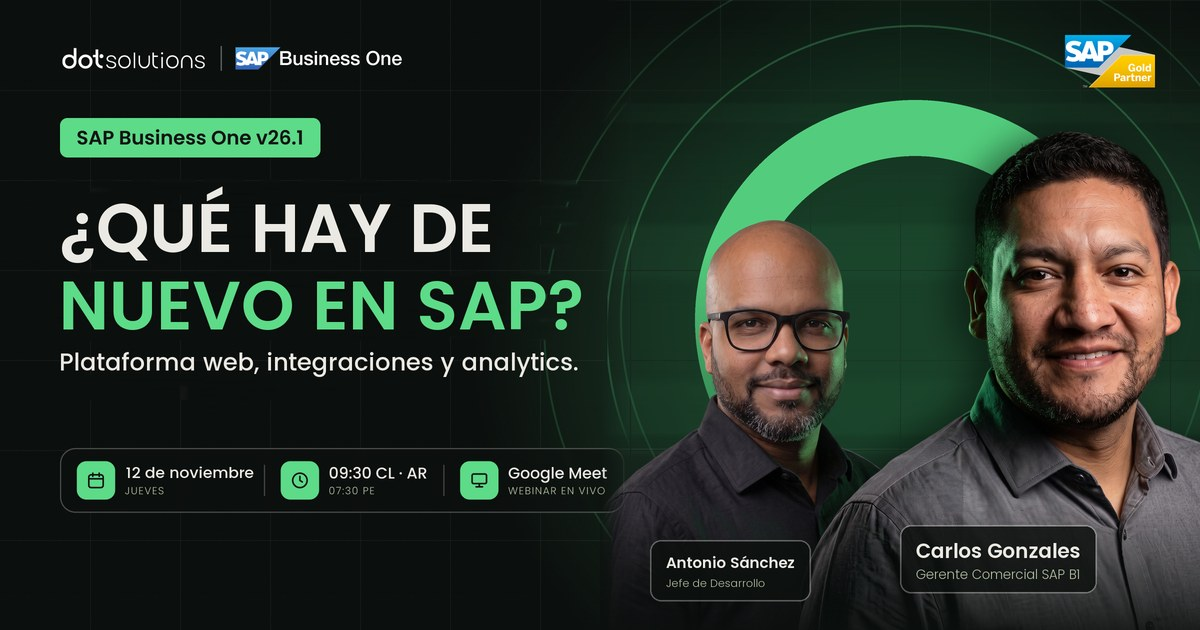
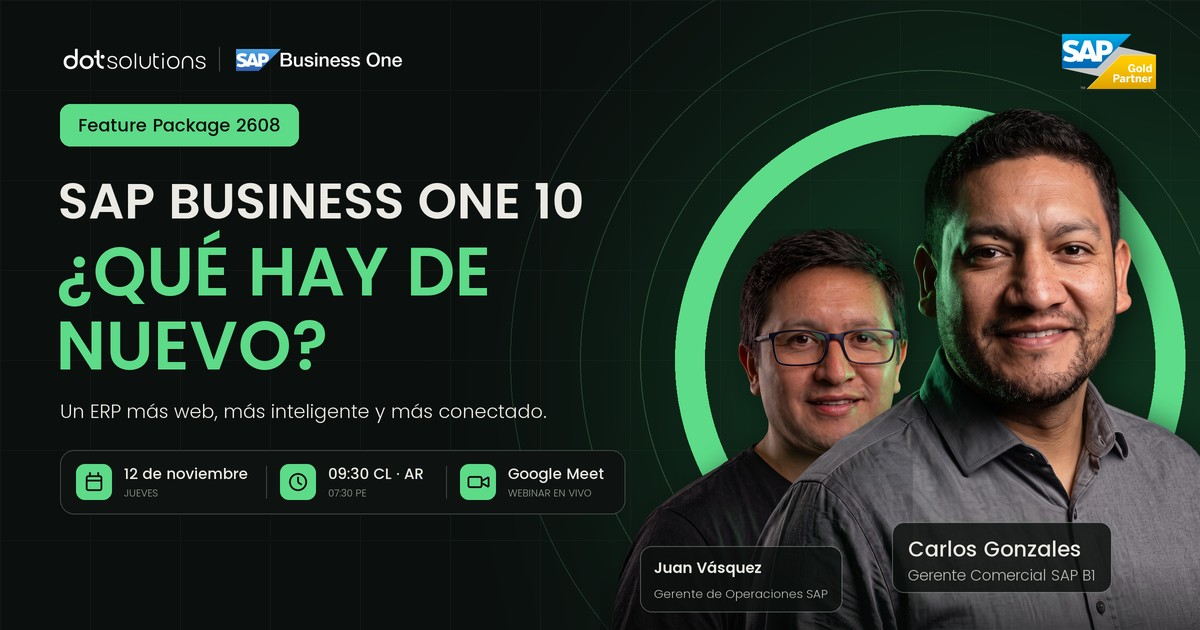
Mailings: título oficial SAP B1 10, contenido FP 2608, Juan Vásquez y envío por dotfax sin variables

diff --git a/email/invitacion.html b/email/invitacion.html
@@ -7,15 +7,14 @@
 <meta name="x-apple-disable-message-reformatting">
 <meta name="color-scheme" content="dark">
 <meta name="supported-color-schemes" content="dark">
-<title>Invitación · ¿Qué hay de nuevo en SAP? · Webinar SAP Business One v26.1</title>
+<title>Invitación · SAP Business One 10 ¿Qué hay de nuevo? · Webinar DOT Solutions</title>
 <!--[if mso]><noscript><xml><o:OfficeDocumentSettings><o:PixelsPerInch>96</o:PixelsPerInch></o:OfficeDocumentSettings></xml></noscript><![endif]-->
 <link href="https://fonts.googleapis.com/css2?family=Poppins:wght@300;400;500;600&display=swap" rel="stylesheet">
 <style>
   /* =========================================================
-     MAILING · Confirmación de inscripción
-     Variables a reemplazar en tu plataforma de email:
-       {{nombre}}           nombre de la persona inscrita
-       {{unsubscribe_url}}  enlace de baja (lo entrega tu plataforma)
+     MAILING · Invitación al webinar
+     Envío por dotfax: listo para enviar, sin variables.
+     La baja se solicita respondiendo a contacto@dotsolutions.io
      Imágenes alojadas en https://jpmenenm.github.io/webinar-sapb1-v26/email/img/
      ========================================================= */
   body,table,td,a{-webkit-text-size-adjust:100%;-ms-text-size-adjust:100%}
@@ -47,7 +46,7 @@
 
 <!-- Preheader (texto de vista previa en la bandeja) -->
 <div style="display:none;max-height:0;overflow:hidden;mso-hide:all;font-size:1px;line-height:1px;color:#0B0F0D;">
-  Te invitamos: jueves 12 de noviembre, webinar en vivo para conocer lo nuevo de SAP Business One v26.1: plataforma web, integraciones y analytics.&nbsp;&#847;&nbsp;&#847;&nbsp;&#847;&nbsp;&#847;&nbsp;&#847;&nbsp;&#847;&nbsp;&#847;&nbsp;&#847;&nbsp;&#847;&nbsp;&#847;&nbsp;&#847;&nbsp;&#847;
+  Te invitamos: jueves 12 de noviembre, webinar en vivo SAP Business One 10 ¿Qué hay de nuevo? Web Client, IA, informes e integración.&nbsp;&#847;&nbsp;&#847;&nbsp;&#847;&nbsp;&#847;&nbsp;&#847;&nbsp;&#847;&nbsp;&#847;&nbsp;&#847;&nbsp;&#847;&nbsp;&#847;&nbsp;&#847;&nbsp;&#847;
 </div>
 
 <table role="presentation" width="100%" cellpadding="0" cellspacing="0" border="0" bgcolor="#0B0F0D" style="background:#0B0F0D;">
@@ -80,16 +79,16 @@
 
   <!-- ============ HERO ============ -->
   <tr><td class="full" style="padding:0 0 0;">
-    <a href="https://jpmenenm.github.io/webinar-sapb1-v26/?utm_source=email&amp;utm_medium=invitacion&amp;utm_campaign=webinar-sapb1-v261#registro" target="_blank" style="text-decoration:none;">
-      <img src="https://jpmenenm.github.io/webinar-sapb1-v26/email/img/hero.jpg" width="600" height="315" alt="Webinar en vivo · ¿Qué hay de nuevo en SAP? · SAP Business One v26.1 · 12 de noviembre · Antonio Sánchez y Carlos Gonzales" style="width:600px;height:auto;border-radius:20px 20px 0 0;color:#EBE9E3;font-family:Arial,sans-serif;font-size:16px;background:#0F1512;">
+    <a href="https://jpmenenm.github.io/webinar-sapb1-v26/?utm_source=email&amp;utm_medium=invitacion&amp;utm_campaign=webinar-sapb1-10#registro" target="_blank" style="text-decoration:none;">
+      <img src="https://jpmenenm.github.io/webinar-sapb1-v26/email/img/hero.jpg" width="600" height="315" alt="Webinar en vivo · SAP Business One 10 ¿Qué hay de nuevo? · 12 de noviembre · Carlos Gonzales y Juan Vásquez" style="width:600px;height:auto;border-radius:20px 20px 0 0;color:#EBE9E3;font-family:Arial,sans-serif;font-size:16px;background:#0F1512;">
     </a>
   </td></tr>
 
   <!-- ============ SALUDO ============ -->
   <tr><td class="px" bgcolor="#0F1512" style="background:#0F1512;padding:36px 40px 8px;">
-    <p class="f" style="margin:0 0 10px;font-family:'Poppins',Arial,sans-serif;font-size:12px;letter-spacing:2.4px;color:#5DDB88;font-weight:500;">HOLA {{nombre}},</p>
-    <h1 class="f h1" style="margin:0 0 16px;font-family:'Poppins',Arial,sans-serif;font-size:36px;line-height:42px;font-weight:600;color:#EBE9E3;letter-spacing:-0.5px;">¿Qué hay de nuevo<br><span style="color:#5DDB88;">en SAP?</span></h1>
-    <p class="f" style="margin:0;font-family:'Poppins',Arial,sans-serif;font-size:15px;line-height:25px;color:#B9BEB6;font-weight:300;">Te invitamos al webinar en vivo <strong style="color:#EBE9E3;font-weight:500;">¿Qué hay de nuevo en SAP?</strong>. Te mostramos lo más relevante de SAP Business One v26.1: la plataforma web ya está lista, las integraciones son más simples y el análisis de datos está más a mano.</p>
+    <p class="f" style="margin:0 0 10px;font-family:'Poppins',Arial,sans-serif;font-size:12px;letter-spacing:2.4px;color:#5DDB88;font-weight:500;">HOLA,</p>
+    <h1 class="f h1" style="margin:0 0 16px;font-family:'Poppins',Arial,sans-serif;font-size:36px;line-height:42px;font-weight:600;color:#EBE9E3;letter-spacing:-0.5px;">SAP Business One 10<br><span style="color:#5DDB88;">¿Qué hay de nuevo?</span></h1>
+    <p class="f" style="margin:0;font-family:'Poppins',Arial,sans-serif;font-size:15px;line-height:25px;color:#B9BEB6;font-weight:300;">Te invitamos al webinar en vivo <strong style="color:#EBE9E3;font-weight:500;">SAP Business One 10 ¿Qué hay de nuevo?</strong> Recorremos el Feature Package 2608, el más amplio hasta la fecha: un Web Client que pasa a ser el centro de trabajo, IA generativa con Ask AI, informes más potentes y más control para integrar. Y cómo preparar tu empresa para lo que viene.</p>
   </td></tr>
 
   <!-- ============ EVENTO + CTA ============ -->
@@ -120,7 +119,7 @@
       <tr><td style="padding:0 18px 20px;">
         <table role="presentation" width="100%" cellpadding="0" cellspacing="0" border="0"><tr>
           <td class="btn" align="center" bgcolor="#5DDB88" style="border-radius:999px;background:#5DDB88;">
-            <a href="https://jpmenenm.github.io/webinar-sapb1-v26/?utm_source=email&amp;utm_medium=invitacion&amp;utm_campaign=webinar-sapb1-v261#registro" target="_blank" class="f" style="display:block;padding:15px 24px;font-family:'Poppins',Arial,sans-serif;font-size:16px;font-weight:600;color:#0B120D;text-decoration:none;border-radius:999px;background:#5DDB88;">Reservar mi cupo &rarr;</a>
+            <a href="https://jpmenenm.github.io/webinar-sapb1-v26/?utm_source=email&amp;utm_medium=invitacion&amp;utm_campaign=webinar-sapb1-10#registro" target="_blank" class="f" style="display:block;padding:15px 24px;font-family:'Poppins',Arial,sans-serif;font-size:16px;font-weight:600;color:#0B120D;text-decoration:none;border-radius:999px;background:#5DDB88;">Reservar mi cupo &rarr;</a>
           </td>
         </tr></table>
       </td></tr>
@@ -129,60 +128,69 @@
 
   <!-- ============ LO NUEVO ============ -->
   <tr><td class="px" bgcolor="#0F1512" style="background:#0F1512;padding:30px 40px 6px;">
-    <p class="f" style="margin:0 0 6px;font-family:'Poppins',Arial,sans-serif;font-size:11px;letter-spacing:2.4px;color:#5DDB88;font-weight:500;">LO NUEVO EN SAP BUSINESS ONE v26.1</p>
-    <h2 class="f" style="margin:0 0 18px;font-family:'Poppins',Arial,sans-serif;font-size:22px;line-height:28px;font-weight:600;color:#EBE9E3;">Tres novedades que cambian <span style="color:#5DDB88;">el día a día.</span></h2>
+    <p class="f" style="margin:0 0 6px;font-family:'Poppins',Arial,sans-serif;font-size:11px;letter-spacing:2.4px;color:#5DDB88;font-weight:500;">LO QUE VAS A VER · FP 2608</p>
+    <h2 class="f" style="margin:0 0 18px;font-family:'Poppins',Arial,sans-serif;font-size:22px;line-height:28px;font-weight:600;color:#EBE9E3;">Más web, más inteligente <span style="color:#5DDB88;">y más conectado.</span></h2>
     <table role="presentation" width="100%" cellpadding="0" cellspacing="0" border="0">
       <tr><td style="padding:0 0 12px;">
         <table role="presentation" width="100%" cellpadding="0" cellspacing="0" border="0" bgcolor="#121614" style="border:1px solid #24402F;border-radius:16px;background:#121614;"><tr>
           <td width="54" valign="top" class="f" style="padding:18px 0 18px 18px;font-family:'Poppins',Arial,sans-serif;font-size:13px;font-weight:600;color:#5DDB88;letter-spacing:1px;">01</td>
           <td valign="top" class="f" style="padding:18px 18px 18px 0;font-family:'Poppins',Arial,sans-serif;">
-            <div style="font-size:11px;letter-spacing:1.6px;color:#5DDB88;font-weight:500;margin-bottom:4px;">PLATAFORMA WEB</div>
-            <div style="font-size:15px;line-height:21px;color:#EBE9E3;font-weight:500;margin-bottom:4px;">SAP Business One, ahora en el navegador</div>
-            <div style="font-size:13px;line-height:20px;color:#9AA197;">La plataforma web ya está lista: tu equipo puede trabajar con SAP Business One desde donde esté.</div>
+            <div style="font-size:11px;letter-spacing:1.6px;color:#5DDB88;font-weight:500;margin-bottom:4px;">WEB CLIENT</div>
+            <div style="font-size:15px;line-height:21px;color:#EBE9E3;font-weight:500;margin-bottom:4px;">Del complemento al entorno de trabajo principal</div>
+            <div style="font-size:13px;line-height:20px;color:#9AA197;">Ventas, compras, inventario, MRP, proyectos, banca, CRM e informes desde el navegador, con nuevos asistentes para la operación diaria.</div>
           </td></tr></table>
       </td></tr>
       <tr><td style="padding:0 0 12px;">
         <table role="presentation" width="100%" cellpadding="0" cellspacing="0" border="0" bgcolor="#121614" style="border:1px solid #24402F;border-radius:16px;background:#121614;"><tr>
           <td width="54" valign="top" class="f" style="padding:18px 0 18px 18px;font-family:'Poppins',Arial,sans-serif;font-size:13px;font-weight:600;color:#5DDB88;letter-spacing:1px;">02</td>
           <td valign="top" class="f" style="padding:18px 18px 18px 0;font-family:'Poppins',Arial,sans-serif;">
-            <div style="font-size:11px;letter-spacing:1.6px;color:#5DDB88;font-weight:500;margin-bottom:4px;">INTEGRACIONES</div>
-            <div style="font-size:15px;line-height:21px;color:#EBE9E3;font-weight:500;margin-bottom:4px;">Integrar es más simple</div>
-            <div style="font-size:13px;line-height:20px;color:#9AA197;">Conectar SAP Business One con e-commerce, CRM, WMS y otras aplicaciones requiere menos esfuerzo. Incluye Webhooks: SAP B1 avisa a tus sistemas cuando ocurre un evento.</div>
+            <div style="font-size:11px;letter-spacing:1.6px;color:#5DDB88;font-weight:500;margin-bottom:4px;">INTELIGENCIA ARTIFICIAL</div>
+            <div style="font-size:15px;line-height:21px;color:#EBE9E3;font-weight:500;margin-bottom:4px;">La IA generativa llega al Web Client</div>
+            <div style="font-size:13px;line-height:20px;color:#9AA197;">Ask AI responde preguntas en lenguaje natural sobre el documento o dato que estás viendo, y ayuda a construir consultas.</div>
           </td></tr></table>
       </td></tr>
       <tr><td style="padding:0 0 12px;">
         <table role="presentation" width="100%" cellpadding="0" cellspacing="0" border="0" bgcolor="#121614" style="border:1px solid #24402F;border-radius:16px;background:#121614;"><tr>
           <td width="54" valign="top" class="f" style="padding:18px 0 18px 18px;font-family:'Poppins',Arial,sans-serif;font-size:13px;font-weight:600;color:#5DDB88;letter-spacing:1px;">03</td>
           <td valign="top" class="f" style="padding:18px 18px 18px 0;font-family:'Poppins',Arial,sans-serif;">
-            <div style="font-size:11px;letter-spacing:1.6px;color:#5DDB88;font-weight:500;margin-bottom:4px;">ANALYTICS</div>
-            <div style="font-size:15px;line-height:21px;color:#EBE9E3;font-weight:500;margin-bottom:4px;">Más visibilidad sobre tu operación</div>
-            <div style="font-size:13px;line-height:20px;color:#9AA197;">Revisamos las capacidades de análisis de la nueva versión para decidir con información más actualizada.</div>
+            <div style="font-size:11px;letter-spacing:1.6px;color:#5DDB88;font-weight:500;margin-bottom:4px;">INFORMES Y ANALÍTICA</div>
+            <div style="font-size:15px;line-height:21px;color:#EBE9E3;font-weight:500;margin-bottom:4px;">Del KPI al documento origen</div>
+            <div style="font-size:13px;line-height:20px;color:#9AA197;">Informes con KPI agregados, detalle por transacción y acceso directo al documento que generó el dato, exportables a Excel.</div>
+          </td></tr></table>
+      </td></tr>
+      <tr><td style="padding:0 0 12px;">
+        <table role="presentation" width="100%" cellpadding="0" cellspacing="0" border="0" bgcolor="#121614" style="border:1px solid #24402F;border-radius:16px;background:#121614;"><tr>
+          <td width="54" valign="top" class="f" style="padding:18px 0 18px 18px;font-family:'Poppins',Arial,sans-serif;font-size:13px;font-weight:600;color:#5DDB88;letter-spacing:1px;">04</td>
+          <td valign="top" class="f" style="padding:18px 18px 18px 0;font-family:'Poppins',Arial,sans-serif;">
+            <div style="font-size:11px;letter-spacing:1.6px;color:#5DDB88;font-weight:500;margin-bottom:4px;">DESARROLLO E INTEGRACIÓN</div>
+            <div style="font-size:15px;line-height:21px;color:#EBE9E3;font-weight:500;margin-bottom:4px;">Más control para integrar</div>
+            <div style="font-size:13px;line-height:20px;color:#9AA197;">Service Layer con más control sobre webhooks y eventos, y nuevas bases para extensiones con IA y agentes.</div>
           </td></tr></table>
       </td></tr>
     </table>
     <table role="presentation" cellpadding="0" cellspacing="0" border="0" style="margin-top:8px;"><tr>
-      <td class="f" style="font-family:'Poppins',Arial,sans-serif;font-size:12px;line-height:30px;color:#EBE9E3;"><span style="display:inline-block;border:1px solid #2E6B45;border-radius:999px;padding:0 12px;margin:0 6px 8px 0;white-space:nowrap;">Trabajo desde cualquier lugar</span><span style="display:inline-block;border:1px solid #2E6B45;border-radius:999px;padding:0 12px;margin:0 6px 8px 0;white-space:nowrap;">Integraciones más simples</span><span style="display:inline-block;border:1px solid #2E6B45;border-radius:999px;padding:0 12px;margin:0 6px 8px 0;white-space:nowrap;">Información más a mano</span><span style="display:inline-block;border:1px solid #2E6B45;border-radius:999px;padding:0 12px;margin:0 6px 8px 0;white-space:nowrap;">Menos tareas manuales</span><span style="display:inline-block;border:1px solid #2E6B45;border-radius:999px;padding:0 12px;margin:0 6px 8px 0;white-space:nowrap;">Un camino claro para actualizar</span></td>
+      <td class="f" style="font-family:'Poppins',Arial,sans-serif;font-size:12px;line-height:30px;color:#EBE9E3;"><span style="display:inline-block;border:1px solid #2E6B45;border-radius:999px;padding:0 12px;margin:0 6px 8px 0;white-space:nowrap;">Banking y conciliaciones</span><span style="display:inline-block;border:1px solid #2E6B45;border-radius:999px;padding:0 12px;margin:0 6px 8px 0;white-space:nowrap;">Proyectos y MRP</span><span style="display:inline-block;border:1px solid #2E6B45;border-radius:999px;padding:0 12px;margin:0 6px 8px 0;white-space:nowrap;">Ask AI</span><span style="display:inline-block;border:1px solid #2E6B45;border-radius:999px;padding:0 12px;margin:0 6px 8px 0;white-space:nowrap;">Webhooks</span><span style="display:inline-block;border:1px solid #2E6B45;border-radius:999px;padding:0 12px;margin:0 6px 8px 0;white-space:nowrap;">Hoja de ruta en 5 pasos</span></td>
     </tr></table>
   </td></tr>
 
   <!-- ============ PARA QUIÉN ============ -->
   <tr><td class="px" bgcolor="#0F1512" style="background:#0F1512;padding:30px 40px 2px;">
     <p class="f" style="margin:0 0 6px;font-family:'Poppins',Arial,sans-serif;font-size:11px;letter-spacing:2.4px;color:#5DDB88;font-weight:500;">¿PARA QUIÉN ES?</p>
-    <h2 class="f" style="margin:0 0 18px;font-family:'Poppins',Arial,sans-serif;font-size:22px;line-height:28px;font-weight:600;color:#EBE9E3;">Distintas miradas, una nueva versión</h2>
+    <h2 class="f" style="margin:0 0 18px;font-family:'Poppins',Arial,sans-serif;font-size:22px;line-height:28px;font-weight:600;color:#EBE9E3;">Distintas miradas, un ERP más conectado</h2>
     <table role="presentation" width="100%" cellpadding="0" cellspacing="0" border="0">
       <tr>
         <td class="stack stack-pad" width="50%" valign="top" style="padding:0 7px 14px 0;">
           <table role="presentation" width="100%" cellpadding="0" cellspacing="0" border="0" bgcolor="#121614" style="border:1px solid #2A302C;border-radius:14px;background:#121614;"><tr><td class="f" style="padding:16px 16px 15px;font-family:'Poppins',Arial,sans-serif;">
             <div style="font-size:10px;letter-spacing:1.8px;color:#5DDB88;font-weight:500;margin-bottom:6px;">TI / SISTEMAS</div>
             <div style="font-size:14px;line-height:19px;color:#EBE9E3;font-weight:500;margin-bottom:4px;">Directores, gerentes y jefes de TI</div>
-            <div style="font-size:12px;line-height:18px;color:#9AA197;">Integraciones más simples y la plataforma web.</div>
+            <div style="font-size:12px;line-height:18px;color:#9AA197;">Nuevas formas de integrar y extender SAP B1.</div>
           </td></tr></table>
         </td>
         <td class="stack stack-pad" width="50%" valign="top" style="padding:0 0 14px 7px;">
           <table role="presentation" width="100%" cellpadding="0" cellspacing="0" border="0" bgcolor="#121614" style="border:1px solid #2A302C;border-radius:14px;background:#121614;"><tr><td class="f" style="padding:16px 16px 15px;font-family:'Poppins',Arial,sans-serif;">
             <div style="font-size:10px;letter-spacing:1.8px;color:#5DDB88;font-weight:500;margin-bottom:6px;">FINANZAS / CONTABILIDAD</div>
             <div style="font-size:14px;line-height:19px;color:#EBE9E3;font-weight:500;margin-bottom:4px;">Gerentes de Finanzas y Contabilidad</div>
-            <div style="font-size:12px;line-height:18px;color:#9AA197;">Información más a mano para decidir.</div>
+            <div style="font-size:12px;line-height:18px;color:#9AA197;">Informes y banca, ahora desde el navegador.</div>
           </td></tr></table>
         </td>
       </tr>
@@ -191,14 +199,14 @@
           <table role="presentation" width="100%" cellpadding="0" cellspacing="0" border="0" bgcolor="#121614" style="border:1px solid #2A302C;border-radius:14px;background:#121614;"><tr><td class="f" style="padding:16px 16px 15px;font-family:'Poppins',Arial,sans-serif;">
             <div style="font-size:10px;letter-spacing:1.8px;color:#5DDB88;font-weight:500;margin-bottom:6px;">OPERACIONES / C-LEVEL</div>
             <div style="font-size:14px;line-height:19px;color:#EBE9E3;font-weight:500;margin-bottom:4px;">Gerentes de Operaciones y C-Level</div>
-            <div style="font-size:12px;line-height:18px;color:#9AA197;">Una versión pensada para crecer con agilidad.</div>
+            <div style="font-size:12px;line-height:18px;color:#9AA197;">Un ERP más web, más inteligente y más conectado.</div>
           </td></tr></table>
         </td>
         <td class="stack stack-pad" width="50%" valign="top" style="padding:0 0 14px 7px;">
           <table role="presentation" width="100%" cellpadding="0" cellspacing="0" border="0" bgcolor="#121614" style="border:1px solid #2A302C;border-radius:14px;background:#121614;"><tr><td class="f" style="padding:16px 16px 15px;font-family:'Poppins',Arial,sans-serif;">
             <div style="font-size:10px;letter-spacing:1.8px;color:#5DDB88;font-weight:500;margin-bottom:6px;">CONSULTORÍA / OTRAS ÁREAS</div>
             <div style="font-size:14px;line-height:19px;color:#EBE9E3;font-weight:500;margin-bottom:4px;">Consultores y quienes quieren conocer el tema</div>
-            <div style="font-size:12px;line-height:18px;color:#9AA197;">Un recorrido claro por lo nuevo de SAP Business One.</div>
+            <div style="font-size:12px;line-height:18px;color:#9AA197;">Un recorrido completo por el Feature Package 2608.</div>
           </td></tr></table>
         </td>
       </tr>
@@ -222,11 +230,11 @@
       </td>
       <td class="stack" width="50%" valign="top" style="padding-left:8px;">
         <table role="presentation" width="100%" cellpadding="0" cellspacing="0" border="0" bgcolor="#0A0D0B" style="border:1px solid #1E2A23;border-radius:18px;background:#0A0D0B;">
-          <tr><td class="full" style="padding:0;"><img src="https://jpmenenm.github.io/webinar-sapb1-v26/email/img/speaker-antonio.jpg" width="252" height="270" alt="Antonio Sánchez" style="width:100%;max-width:252px;height:auto;border-radius:18px 18px 0 0;"></td></tr>
+          <tr><td class="full" style="padding:0;"><img src="https://jpmenenm.github.io/webinar-sapb1-v26/email/img/speaker-juan.jpg" width="252" height="270" alt="Juan Vásquez" style="width:100%;max-width:252px;height:auto;border-radius:18px 18px 0 0;"></td></tr>
           <tr><td class="f" style="padding:16px 18px 18px;font-family:'Poppins',Arial,sans-serif;">
-            <div style="font-size:17px;line-height:22px;color:#EBE9E3;font-weight:600;">Antonio Sánchez</div>
-            <div style="font-size:12px;line-height:18px;color:#5DDB88;margin:2px 0 8px;">Jefe de Desarrollo</div>
-            <div style="font-size:12px;line-height:18px;color:#9AA197;">Ingeniero en informática con más de 10 años de experiencia. Lidera desarrollo y soporte TI: add-ons, APIs e integraciones sobre SAP Business One.</div>
+            <div style="font-size:17px;line-height:22px;color:#EBE9E3;font-weight:600;">Juan Vásquez</div>
+            <div style="font-size:12px;line-height:18px;color:#5DDB88;margin:2px 0 8px;">Gerente de Operaciones SAP</div>
+            <div style="font-size:12px;line-height:18px;color:#9AA197;">Amplia experiencia en proyectos de cambio de sistemas de información, con liderazgo, conocimiento y control. Ha mejorado procesos clave en múltiples empresas.</div>
           </td></tr>
         </table>
       </td>
@@ -251,7 +259,7 @@
       <tr><td style="padding:20px 30px 30px;">
         <table role="presentation" cellpadding="0" cellspacing="0" border="0"><tr>
           <td class="btn-dark" bgcolor="#141414" style="border-radius:999px;background:#141414;">
-            <a href="https://jpmenenm.github.io/webinar-sapb1-v26/?utm_source=email&amp;utm_medium=invitacion&amp;utm_campaign=webinar-sapb1-v261#registro" target="_blank" class="f" style="display:inline-block;padding:14px 26px;font-family:'Poppins',Arial,sans-serif;font-size:15px;font-weight:600;color:#EBE9E3;text-decoration:none;border-radius:999px;">Reservar mi cupo <span style="color:#5DDB88;">&rarr;</span></a>
+            <a href="https://jpmenenm.github.io/webinar-sapb1-v26/?utm_source=email&amp;utm_medium=invitacion&amp;utm_campaign=webinar-sapb1-10#registro" target="_blank" class="f" style="display:inline-block;padding:14px 26px;font-family:'Poppins',Arial,sans-serif;font-size:15px;font-weight:600;color:#EBE9E3;text-decoration:none;border-radius:999px;">Reservar mi cupo <span style="color:#5DDB88;">&rarr;</span></a>
           </td>
           <td class="f hide-m" style="padding-left:16px;font-family:'Poppins',Arial,sans-serif;font-size:12px;line-height:17px;color:#5C605A;">¿Conoces a alguien a quien le sirva?<br><span style="color:#1F6536;font-weight:500;">Reenvíale esta invitación.</span></td>
         </tr></table>
@@ -277,7 +285,7 @@
     DOT Solutions · Partner Gold de SAP Business One<br>
     Av. del Valle Norte 928, of. 503, Huechuraba, Santiago, Chile<br>
     <a href="mailto:contacto@dotsolutions.io" style="color:#B4C1A3;text-decoration:underline;">contacto@dotsolutions.io</a> · <a href="https://dotsolutions.io" target="_blank" style="color:#B4C1A3;text-decoration:underline;">dotsolutions.io</a><br><br>
-    Recibes este correo porque eres parte de la comunidad de DOT Solutions. Si no quieres recibir más invitaciones, <a href="{{unsubscribe_url}}" style="color:#B4C1A3;text-decoration:underline;">date de baja aquí</a>.<br>
+    Recibes este correo porque eres parte de la comunidad de DOT Solutions. Si no quieres recibir más invitaciones, <a href="mailto:contacto@dotsolutions.io?subject=Baja%20de%20invitaciones" style="color:#B4C1A3;text-decoration:underline;">date de baja aquí</a>.<br>
     SAP, SAP Business One y sus logotipos son marcas registradas de SAP SE.
   </td></tr>
 

diff --git a/email/confirmacion.html b/email/confirmacion.html
@@ -7,16 +7,15 @@
 <meta name="x-apple-disable-message-reformatting">
 <meta name="color-scheme" content="dark">
 <meta name="supported-color-schemes" content="dark">
-<title>Tu cupo está confirmado · Webinar SAP Business One v26.1</title>
+<title>Tu cupo está confirmado · SAP Business One 10 ¿Qué hay de nuevo?</title>
 <!--[if mso]><noscript><xml><o:OfficeDocumentSettings><o:PixelsPerInch>96</o:PixelsPerInch></o:OfficeDocumentSettings></xml></noscript><![endif]-->
 <link href="https://fonts.googleapis.com/css2?family=Poppins:wght@300;400;500;600&display=swap" rel="stylesheet">
 <style>
   /* =========================================================
      MAILING · Confirmación de inscripción
-     Variables a reemplazar en tu plataforma de email:
-       {{nombre}}           nombre de la persona inscrita
-       {{meet_link}}        enlace de Google Meet del webinar
-       {{unsubscribe_url}}  enlace de baja (lo entrega tu plataforma)
+            Envío por dotfax: sin variables por persona.
+       Antes de enviar, reemplaza PEGAR-LINK-MEET (1 vez) por el
+       enlace de Google Meet del webinar.
      Imágenes alojadas en https://jpmenenm.github.io/webinar-sapb1-v26/email/img/
      ========================================================= */
   body,table,td,a{-webkit-text-size-adjust:100%;-ms-text-size-adjust:100%}
@@ -82,15 +81,15 @@
   <!-- ============ HERO ============ -->
   <tr><td class="full" style="padding:0 0 0;">
     <a href="https://jpmenenm.github.io/webinar-sapb1-v26/" target="_blank" style="text-decoration:none;">
-      <img src="https://jpmenenm.github.io/webinar-sapb1-v26/email/img/hero.jpg" width="600" height="315" alt="Webinar en vivo · ¿Qué hay de nuevo en SAP? · SAP Business One v26.1 · 12 de noviembre · Antonio Sánchez y Carlos Gonzales" style="width:600px;height:auto;border-radius:20px 20px 0 0;color:#EBE9E3;font-family:Arial,sans-serif;font-size:16px;background:#0F1512;">
+      <img src="https://jpmenenm.github.io/webinar-sapb1-v26/email/img/hero.jpg" width="600" height="315" alt="Webinar en vivo · SAP Business One 10 ¿Qué hay de nuevo? · 12 de noviembre · Carlos Gonzales y Juan Vásquez" style="width:600px;height:auto;border-radius:20px 20px 0 0;color:#EBE9E3;font-family:Arial,sans-serif;font-size:16px;background:#0F1512;">
     </a>
   </td></tr>
 
   <!-- ============ SALUDO ============ -->
   <tr><td class="px" bgcolor="#0F1512" style="background:#0F1512;padding:36px 40px 8px;">
-    <p class="f" style="margin:0 0 10px;font-family:'Poppins',Arial,sans-serif;font-size:12px;letter-spacing:2.4px;color:#5DDB88;font-weight:500;">HOLA {{nombre}},</p>
+    <p class="f" style="margin:0 0 10px;font-family:'Poppins',Arial,sans-serif;font-size:12px;letter-spacing:2.4px;color:#5DDB88;font-weight:500;">HOLA,</p>
     <h1 class="f h1" style="margin:0 0 16px;font-family:'Poppins',Arial,sans-serif;font-size:36px;line-height:42px;font-weight:600;color:#EBE9E3;letter-spacing:-0.5px;">Tu cupo está <span style="color:#5DDB88;">confirmado.</span></h1>
-    <p class="f" style="margin:0;font-family:'Poppins',Arial,sans-serif;font-size:15px;line-height:25px;color:#B9BEB6;font-weight:300;">Gracias por inscribirte en el webinar <strong style="color:#EBE9E3;font-weight:500;">¿Qué hay de nuevo en SAP?</strong>. Te mostramos lo más relevante de SAP Business One v26.1: la plataforma web ya está lista, las integraciones son más simples y el análisis de datos está más a mano.</p>
+    <p class="f" style="margin:0;font-family:'Poppins',Arial,sans-serif;font-size:15px;line-height:25px;color:#B9BEB6;font-weight:300;">Gracias por inscribirte en el webinar <strong style="color:#EBE9E3;font-weight:500;">SAP Business One 10 ¿Qué hay de nuevo?</strong> Recorremos el Feature Package 2608: el Web Client como nuevo centro de trabajo, IA generativa con Ask AI, informes más potentes y más control para integrar.</p>
   </td></tr>
 
   <!-- ============ TARJETA DEL EVENTO ============ -->
@@ -122,7 +121,7 @@
       <tr><td style="padding:2px 22px 14px;">
         <table role="presentation" width="100%" cellpadding="0" cellspacing="0" border="0"><tr>
           <td class="btn" align="center" bgcolor="#5DDB88" style="border-radius:999px;background:#5DDB88;">
-            <a href="{{meet_link}}" target="_blank" class="f" style="display:block;padding:15px 24px;font-family:'Poppins',Arial,sans-serif;font-size:16px;font-weight:600;color:#0B120D;text-decoration:none;border-radius:999px;background:#5DDB88;">Unirme al webinar en Google Meet &rarr;</a>
+            <a href="https://meet.google.com/PEGAR-LINK-MEET" target="_blank" class="f" style="display:block;padding:15px 24px;font-family:'Poppins',Arial,sans-serif;font-size:16px;font-weight:600;color:#0B120D;text-decoration:none;border-radius:999px;background:#5DDB88;">Unirme al webinar en Google Meet &rarr;</a>
           </td>
         </tr></table>
       </td></tr>
@@ -130,7 +129,7 @@
       <tr><td style="padding:0 22px 22px;">
         <table role="presentation" width="100%" cellpadding="0" cellspacing="0" border="0"><tr>
           <td class="stack stack-pad btn-ghost" width="50%" style="padding-right:6px;">
-            <a href="https://calendar.google.com/calendar/render?action=TEMPLATE&amp;text=%C2%BFQu%C3%A9%20hay%20de%20nuevo%20en%20SAP%3F%20%C2%B7%20Webinar%20SAP%20Business%20One%20v26.1&amp;dates=20261112T123000Z%2F20261112T133000Z&amp;details=Webinar%20en%20vivo%20de%20DOT%20Solutions.%20El%20enlace%20de%20Google%20Meet%20est%C3%A1%20en%20tu%20correo%20de%20confirmaci%C3%B3n.&amp;location=Google%20Meet" target="_blank" class="f" style="display:block;text-align:center;padding:11px 10px;border:1px solid #3A403C;border-radius:999px;font-family:'Poppins',Arial,sans-serif;font-size:13px;font-weight:500;color:#EBE9E3;text-decoration:none;">+ Google Calendar</a>
+            <a href="https://calendar.google.com/calendar/render?action=TEMPLATE&amp;text=SAP%20Business%20One%2010%20%C2%BFQu%C3%A9%20hay%20de%20nuevo%3F%20%C2%B7%20Webinar%20DOT%20Solutions&amp;dates=20261112T123000Z%2F20261112T133000Z&amp;details=Webinar%20en%20vivo%20de%20DOT%20Solutions.%20El%20enlace%20de%20Google%20Meet%20est%C3%A1%20en%20tu%20correo%20de%20confirmaci%C3%B3n.&amp;location=Google%20Meet" target="_blank" class="f" style="display:block;text-align:center;padding:11px 10px;border:1px solid #3A403C;border-radius:999px;font-family:'Poppins',Arial,sans-serif;font-size:13px;font-weight:500;color:#EBE9E3;text-decoration:none;">+ Google Calendar</a>
           </td>
           <td class="stack btn-ghost" width="50%" style="padding-left:6px;">
             <a href="https://jpmenenm.github.io/webinar-sapb1-v26/email/invite.ics" target="_blank" class="f" style="display:block;text-align:center;padding:11px 10px;border:1px solid #3A403C;border-radius:999px;font-family:'Poppins',Arial,sans-serif;font-size:13px;font-weight:500;color:#EBE9E3;text-decoration:none;">+ Outlook / Apple (.ics)</a>
@@ -162,39 +161,48 @@
 
   <!-- ============ LO NUEVO ============ -->
   <tr><td class="px" bgcolor="#0F1512" style="background:#0F1512;padding:30px 40px 6px;">
-    <p class="f" style="margin:0 0 6px;font-family:'Poppins',Arial,sans-serif;font-size:11px;letter-spacing:2.4px;color:#5DDB88;font-weight:500;">LO NUEVO EN SAP BUSINESS ONE v26.1</p>
-    <h2 class="f" style="margin:0 0 18px;font-family:'Poppins',Arial,sans-serif;font-size:22px;line-height:28px;font-weight:600;color:#EBE9E3;">Tres novedades que cambian <span style="color:#5DDB88;">el día a día.</span></h2>
+    <p class="f" style="margin:0 0 6px;font-family:'Poppins',Arial,sans-serif;font-size:11px;letter-spacing:2.4px;color:#5DDB88;font-weight:500;">LO QUE VAS A VER · FP 2608</p>
+    <h2 class="f" style="margin:0 0 18px;font-family:'Poppins',Arial,sans-serif;font-size:22px;line-height:28px;font-weight:600;color:#EBE9E3;">Más web, más inteligente <span style="color:#5DDB88;">y más conectado.</span></h2>
     <table role="presentation" width="100%" cellpadding="0" cellspacing="0" border="0">
       <tr><td style="padding:0 0 12px;">
         <table role="presentation" width="100%" cellpadding="0" cellspacing="0" border="0" bgcolor="#121614" style="border:1px solid #24402F;border-radius:16px;background:#121614;"><tr>
           <td width="54" valign="top" class="f" style="padding:18px 0 18px 18px;font-family:'Poppins',Arial,sans-serif;font-size:13px;font-weight:600;color:#5DDB88;letter-spacing:1px;">01</td>
           <td valign="top" class="f" style="padding:18px 18px 18px 0;font-family:'Poppins',Arial,sans-serif;">
-            <div style="font-size:11px;letter-spacing:1.6px;color:#5DDB88;font-weight:500;margin-bottom:4px;">PLATAFORMA WEB</div>
-            <div style="font-size:15px;line-height:21px;color:#EBE9E3;font-weight:500;margin-bottom:4px;">SAP Business One, ahora en el navegador</div>
-            <div style="font-size:13px;line-height:20px;color:#9AA197;">La plataforma web ya está lista: tu equipo puede trabajar con SAP Business One desde donde esté.</div>
+            <div style="font-size:11px;letter-spacing:1.6px;color:#5DDB88;font-weight:500;margin-bottom:4px;">WEB CLIENT</div>
+            <div style="font-size:15px;line-height:21px;color:#EBE9E3;font-weight:500;margin-bottom:4px;">Del complemento al entorno de trabajo principal</div>
+            <div style="font-size:13px;line-height:20px;color:#9AA197;">Ventas, compras, inventario, MRP, proyectos, banca, CRM e informes desde el navegador, con nuevos asistentes para la operación diaria.</div>
           </td></tr></table>
       </td></tr>
       <tr><td style="padding:0 0 12px;">
         <table role="presentation" width="100%" cellpadding="0" cellspacing="0" border="0" bgcolor="#121614" style="border:1px solid #24402F;border-radius:16px;background:#121614;"><tr>
           <td width="54" valign="top" class="f" style="padding:18px 0 18px 18px;font-family:'Poppins',Arial,sans-serif;font-size:13px;font-weight:600;color:#5DDB88;letter-spacing:1px;">02</td>
           <td valign="top" class="f" style="padding:18px 18px 18px 0;font-family:'Poppins',Arial,sans-serif;">
-            <div style="font-size:11px;letter-spacing:1.6px;color:#5DDB88;font-weight:500;margin-bottom:4px;">INTEGRACIONES</div>
-            <div style="font-size:15px;line-height:21px;color:#EBE9E3;font-weight:500;margin-bottom:4px;">Integrar es más simple</div>
-            <div style="font-size:13px;line-height:20px;color:#9AA197;">Conectar SAP Business One con e-commerce, CRM, WMS y otras aplicaciones requiere menos esfuerzo. Incluye Webhooks: SAP B1 avisa a tus sistemas cuando ocurre un evento.</div>
+            <div style="font-size:11px;letter-spacing:1.6px;color:#5DDB88;font-weight:500;margin-bottom:4px;">INTELIGENCIA ARTIFICIAL</div>
+            <div style="font-size:15px;line-height:21px;color:#EBE9E3;font-weight:500;margin-bottom:4px;">La IA generativa llega al Web Client</div>
+            <div style="font-size:13px;line-height:20px;color:#9AA197;">Ask AI responde preguntas en lenguaje natural sobre el documento o dato que estás viendo, y ayuda a construir consultas.</div>
           </td></tr></table>
       </td></tr>
       <tr><td style="padding:0 0 12px;">
         <table role="presentation" width="100%" cellpadding="0" cellspacing="0" border="0" bgcolor="#121614" style="border:1px solid #24402F;border-radius:16px;background:#121614;"><tr>
           <td width="54" valign="top" class="f" style="padding:18px 0 18px 18px;font-family:'Poppins',Arial,sans-serif;font-size:13px;font-weight:600;color:#5DDB88;letter-spacing:1px;">03</td>
           <td valign="top" class="f" style="padding:18px 18px 18px 0;font-family:'Poppins',Arial,sans-serif;">
-            <div style="font-size:11px;letter-spacing:1.6px;color:#5DDB88;font-weight:500;margin-bottom:4px;">ANALYTICS</div>
-            <div style="font-size:15px;line-height:21px;color:#EBE9E3;font-weight:500;margin-bottom:4px;">Más visibilidad sobre tu operación</div>
-            <div style="font-size:13px;line-height:20px;color:#9AA197;">Revisamos las capacidades de análisis de la nueva versión para decidir con información más actualizada.</div>
+            <div style="font-size:11px;letter-spacing:1.6px;color:#5DDB88;font-weight:500;margin-bottom:4px;">INFORMES Y ANALÍTICA</div>
+            <div style="font-size:15px;line-height:21px;color:#EBE9E3;font-weight:500;margin-bottom:4px;">Del KPI al documento origen</div>
+            <div style="font-size:13px;line-height:20px;color:#9AA197;">Informes con KPI agregados, detalle por transacción y acceso directo al documento que generó el dato, exportables a Excel.</div>
+          </td></tr></table>
+      </td></tr>
+      <tr><td style="padding:0 0 12px;">
+        <table role="presentation" width="100%" cellpadding="0" cellspacing="0" border="0" bgcolor="#121614" style="border:1px solid #24402F;border-radius:16px;background:#121614;"><tr>
+          <td width="54" valign="top" class="f" style="padding:18px 0 18px 18px;font-family:'Poppins',Arial,sans-serif;font-size:13px;font-weight:600;color:#5DDB88;letter-spacing:1px;">04</td>
+          <td valign="top" class="f" style="padding:18px 18px 18px 0;font-family:'Poppins',Arial,sans-serif;">
+            <div style="font-size:11px;letter-spacing:1.6px;color:#5DDB88;font-weight:500;margin-bottom:4px;">DESARROLLO E INTEGRACIÓN</div>
+            <div style="font-size:15px;line-height:21px;color:#EBE9E3;font-weight:500;margin-bottom:4px;">Más control para integrar</div>
+            <div style="font-size:13px;line-height:20px;color:#9AA197;">Service Layer con más control sobre webhooks y eventos, y nuevas bases para extensiones con IA y agentes.</div>
           </td></tr></table>
       </td></tr>
     </table>
     <table role="presentation" cellpadding="0" cellspacing="0" border="0" style="margin-top:8px;"><tr>
-      <td class="f" style="font-family:'Poppins',Arial,sans-serif;font-size:12px;line-height:30px;color:#EBE9E3;"><span style="display:inline-block;border:1px solid #2E6B45;border-radius:999px;padding:0 12px;margin:0 6px 8px 0;white-space:nowrap;">Trabajo desde cualquier lugar</span><span style="display:inline-block;border:1px solid #2E6B45;border-radius:999px;padding:0 12px;margin:0 6px 8px 0;white-space:nowrap;">Integraciones más simples</span><span style="display:inline-block;border:1px solid #2E6B45;border-radius:999px;padding:0 12px;margin:0 6px 8px 0;white-space:nowrap;">Información más a mano</span><span style="display:inline-block;border:1px solid #2E6B45;border-radius:999px;padding:0 12px;margin:0 6px 8px 0;white-space:nowrap;">Menos tareas manuales</span><span style="display:inline-block;border:1px solid #2E6B45;border-radius:999px;padding:0 12px;margin:0 6px 8px 0;white-space:nowrap;">Un camino claro para actualizar</span></td>
+      <td class="f" style="font-family:'Poppins',Arial,sans-serif;font-size:12px;line-height:30px;color:#EBE9E3;"><span style="display:inline-block;border:1px solid #2E6B45;border-radius:999px;padding:0 12px;margin:0 6px 8px 0;white-space:nowrap;">Banking y conciliaciones</span><span style="display:inline-block;border:1px solid #2E6B45;border-radius:999px;padding:0 12px;margin:0 6px 8px 0;white-space:nowrap;">Proyectos y MRP</span><span style="display:inline-block;border:1px solid #2E6B45;border-radius:999px;padding:0 12px;margin:0 6px 8px 0;white-space:nowrap;">Ask AI</span><span style="display:inline-block;border:1px solid #2E6B45;border-radius:999px;padding:0 12px;margin:0 6px 8px 0;white-space:nowrap;">Webhooks</span><span style="display:inline-block;border:1px solid #2E6B45;border-radius:999px;padding:0 12px;margin:0 6px 8px 0;white-space:nowrap;">Hoja de ruta en 5 pasos</span></td>
     </tr></table>
   </td></tr>
 
@@ -215,11 +223,11 @@
       </td>
       <td class="stack" width="50%" valign="top" style="padding-left:8px;">
         <table role="presentation" width="100%" cellpadding="0" cellspacing="0" border="0" bgcolor="#0A0D0B" style="border:1px solid #1E2A23;border-radius:18px;background:#0A0D0B;">
-          <tr><td class="full" style="padding:0;"><img src="https://jpmenenm.github.io/webinar-sapb1-v26/email/img/speaker-antonio.jpg" width="252" height="270" alt="Antonio Sánchez" style="width:100%;max-width:252px;height:auto;border-radius:18px 18px 0 0;"></td></tr>
+          <tr><td class="full" style="padding:0;"><img src="https://jpmenenm.github.io/webinar-sapb1-v26/email/img/speaker-juan.jpg" width="252" height="270" alt="Juan Vásquez" style="width:100%;max-width:252px;height:auto;border-radius:18px 18px 0 0;"></td></tr>
           <tr><td class="f" style="padding:16px 18px 18px;font-family:'Poppins',Arial,sans-serif;">
-            <div style="font-size:17px;line-height:22px;color:#EBE9E3;font-weight:600;">Antonio Sánchez</div>
-            <div style="font-size:12px;line-height:18px;color:#5DDB88;margin:2px 0 8px;">Jefe de Desarrollo</div>
-            <div style="font-size:12px;line-height:18px;color:#9AA197;">Ingeniero en informática con más de 10 años de experiencia. Lidera desarrollo y soporte TI: add-ons, APIs e integraciones sobre SAP Business One.</div>
+            <div style="font-size:17px;line-height:22px;color:#EBE9E3;font-weight:600;">Juan Vásquez</div>
+            <div style="font-size:12px;line-height:18px;color:#5DDB88;margin:2px 0 8px;">Gerente de Operaciones SAP</div>
+            <div style="font-size:12px;line-height:18px;color:#9AA197;">Amplia experiencia en proyectos de cambio de sistemas de información, con liderazgo, conocimiento y control. Ha mejorado procesos clave en múltiples empresas.</div>
           </td></tr>
         </table>
       </td>
@@ -239,7 +247,7 @@
         </tr></table>
       </td></tr>
       <tr><td class="f" style="padding:10px 30px 22px;font-family:'Poppins',Arial,sans-serif;font-size:14px;line-height:22px;color:#3E423D;">
-        Agenda un <strong style="color:#141414;font-weight:600;">diagnóstico estratégico</strong>: una conversación para entender tu operación y tu ecosistema de integraciones.
+        Agenda un <strong style="color:#141414;font-weight:600;">diagnóstico de preparación</strong>: revisamos tu entorno actual frente al FP 2608 y la futura versión 11, antes de decidir cuándo y cómo actualizar.
       </td></tr>
       <tr><td style="padding:0 30px;"><div style="height:1px;line-height:1px;font-size:1px;background:#D3D0C8;">&nbsp;</div></td></tr>
       <tr><td style="padding:20px 30px 6px;">
@@ -253,13 +261,13 @@
             <td class="stack stack-pad" width="33%" valign="top" style="padding-right:12px;">
               <table role="presentation" cellpadding="0" cellspacing="0" border="0"><tr>
                 <td valign="top" style="padding:7px 10px 0 0;"><div style="width:7px;height:7px;border-radius:7px;background:#1F6536;"></div></td>
-                <td class="f" style="font-family:'Poppins',Arial,sans-serif;"><div style="font-size:13px;line-height:18px;color:#141414;font-weight:600;">Tu operación real</div><div style="font-size:12px;line-height:17px;color:#5C605A;">Revisamos tus procesos e integraciones actuales.</div></td>
+                <td class="f" style="font-family:'Poppins',Arial,sans-serif;"><div style="font-size:13px;line-height:18px;color:#141414;font-weight:600;">Tu operación real</div><div style="font-size:12px;line-height:17px;color:#5C605A;">Versión, add-ons, personalizaciones e integraciones.</div></td>
               </tr></table>
             </td>
             <td class="stack stack-pad" width="33%" valign="top" style="padding-right:12px;">
               <table role="presentation" cellpadding="0" cellspacing="0" border="0"><tr>
                 <td valign="top" style="padding:7px 10px 0 0;"><div style="width:7px;height:7px;border-radius:7px;background:#1F6536;"></div></td>
-                <td class="f" style="font-family:'Poppins',Arial,sans-serif;"><div style="font-size:13px;line-height:18px;color:#141414;font-weight:600;">Hoja de ruta</div><div style="font-size:12px;line-height:17px;color:#5C605A;">Defines los próximos pasos con claridad.</div></td>
+                <td class="f" style="font-family:'Poppins',Arial,sans-serif;"><div style="font-size:13px;line-height:18px;color:#141414;font-weight:600;">Hoja de ruta</div><div style="font-size:12px;line-height:17px;color:#5C605A;">Defines cuándo y cómo actualizar, paso a paso.</div></td>
               </tr></table>
             </td>
         </tr></table>
@@ -267,7 +275,7 @@
       <tr><td style="padding:18px 30px 30px;">
         <table role="presentation" cellpadding="0" cellspacing="0" border="0"><tr>
           <td class="btn-dark" bgcolor="#141414" style="border-radius:999px;background:#141414;">
-            <a href="mailto:contacto@dotsolutions.io?subject=Diagn%C3%B3stico%20estrat%C3%A9gico%20-%20Webinar%20SAP%20B1%20v26.1" class="f" style="display:inline-block;padding:14px 24px;font-family:'Poppins',Arial,sans-serif;font-size:14px;font-weight:600;color:#EBE9E3;text-decoration:none;border-radius:999px;">Agendar mi diagnóstico <span style="color:#5DDB88;">&rarr;</span></a>
+            <a href="mailto:contacto@dotsolutions.io?subject=Diagn%C3%B3stico%20de%20preparaci%C3%B3n%20-%20Webinar%20SAP%20B1%2010" class="f" style="display:inline-block;padding:14px 24px;font-family:'Poppins',Arial,sans-serif;font-size:14px;font-weight:600;color:#EBE9E3;text-decoration:none;border-radius:999px;">Agendar mi diagnóstico <span style="color:#5DDB88;">&rarr;</span></a>
           </td>
           <td class="f hide-m" style="padding-left:16px;font-family:'Poppins',Arial,sans-serif;font-size:12px;line-height:17px;color:#5C605A;">o escríbenos a<br><a href="mailto:contacto@dotsolutions.io" style="color:#1F6536;font-weight:500;text-decoration:none;">contacto@dotsolutions.io</a></td>
         </tr></table>
@@ -292,7 +300,7 @@
     DOT Solutions · Partner Gold de SAP Business One<br>
     Av. del Valle Norte 928, of. 503, Huechuraba, Santiago, Chile<br>
     <a href="mailto:contacto@dotsolutions.io" style="color:#B4C1A3;text-decoration:underline;">contacto@dotsolutions.io</a> · <a href="https://dotsolutions.io" target="_blank" style="color:#B4C1A3;text-decoration:underline;">dotsolutions.io</a><br><br>
-    Recibes este correo porque te inscribiste en el webinar SAP Business One v26.1. Si no quieres recibir más comunicaciones de este evento, <a href="{{unsubscribe_url}}" style="color:#B4C1A3;text-decoration:underline;">date de baja aquí</a>.<br>
+    Recibes este correo porque te inscribiste en el webinar SAP Business One 10 ¿Qué hay de nuevo? Si no quieres recibir más comunicaciones de este evento, <a href="mailto:contacto@dotsolutions.io?subject=Baja%20de%20comunicaciones" style="color:#B4C1A3;text-decoration:underline;">date de baja aquí</a>.<br>
     SAP, SAP Business One y sus logotipos son marcas registradas de SAP SE.
   </td></tr>
 

diff --git a/index.html b/index.html
@@ -1031,7 +1031,7 @@ document.querySelectorAll('.spot').forEach(c => c.addEventListener('pointermove'
       'DTSTAMP:' + new Date().toISOString().replace(/[-:]/g, '').split('.')[0] + 'Z','DTSTART:' + ev.startUTC,'DTEND:' + ev.endUTC,
       'SUMMARY:' + ev.title,'DESCRIPTION:' + ev.details,'LOCATION:' + ev.location,'END:VEVENT','END:VCALENDAR'].join('\r\n');
     const a = document.createElement('a'); a.href = URL.createObjectURL(new Blob([ics], { type: 'text/calendar' }));
-    a.download = 'webinar-dot-sapb1-v26-1.ics'; a.click(); setTimeout(() => URL.revokeObjectURL(a.href), 1000);
+    a.download = 'webinar-dot-sapb1-10.ics'; a.click(); setTimeout(() => URL.revokeObjectURL(a.href), 1000);
   });
 })();
 
